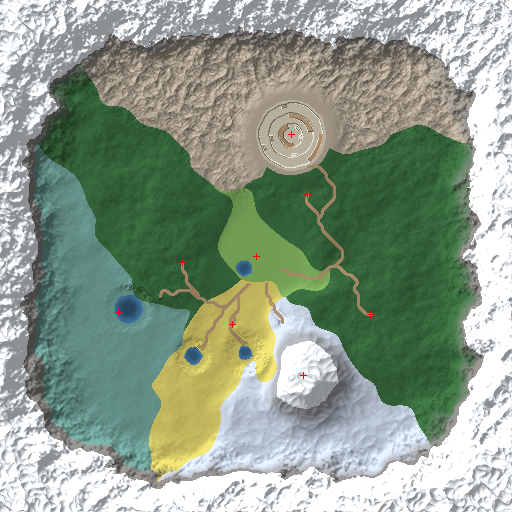
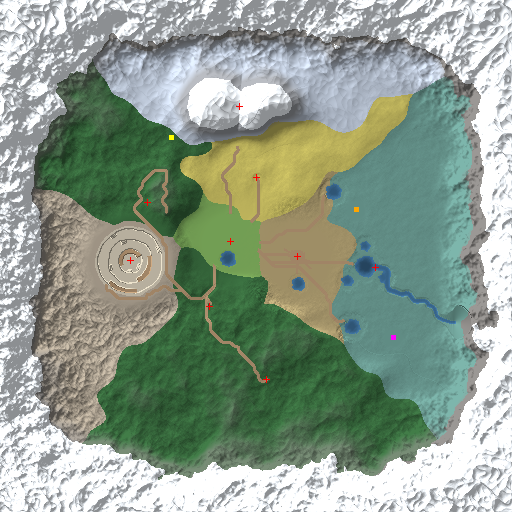
Procgen variety, phase 6: wrap-up docs
README: generated worlds' kinds, Hearthvale, rivers, landmarks, rich and lean,
and the new scripts; a fresh top-down map of seed 42. TODO: what's left (new
in-game screenshots, walking the new pieces, the ring road).

diff --git a/README.md b/README.md
@@ -52,11 +52,15 @@ whatever you hit.
   - **Goldmeadow** (south-east): rolling farmland. Crop squares of wheat and barley between dirt tracks, a windmill with turning sails (wall-run it), a fenced pasture with hay bales, a hay cart, lone oaks, and crickets.
   - **Hearthvale** (the village), **Stillwater** (the lake), **The Clearing** and **Frostpeak** have moods of their own too.
 - **Generated worlds (experimental).** From the debug menu's *Procgen* tab (or `-- --procgen --seed=N`), step into a world built from a seed in a few seconds, with its own character and save.
-  - A flat clearing to start in, a ring of biomes round it (Pinewood, Goldmeadow, Greystone Quarry, Frostpeak, Stillwater) with wandering borders, gentler ones near the hub and harder ones further out, and mountains round the edge.
-  - Ponds and a lake with fish, a three-level quarry pit with its haul road and mantle stairs, and dirt trails winding from the clearing to every biome and shore.
-  - Every biome filled with its own trees, rocks, grain and scenery. Each tree, rock, bush and boulder may be one of four baked variants of its model, so no two look alike.
+  - A clearing to start in (somewhere near the middle), a ring of biomes round it with wandering borders, gentler ones near the start and harder ones further out, and mountains round the edge. Every biome is there on every seed, since progression needs them all.
+  - **Every biome rolls a kind**, named on its arrival card: a Pine Forest, Birch Grove or Old Growth; Grainfields, Orchard Downs or Rolling Downs; a Great Lake, a Marsh or an Island Lake; a Terraced, Deep or Broken quarry pit; a Lone Peak, Twin Peaks or a Ridge; a Meadow or a Hollow to start in. A kind changes the ground, the trees and rocks, and the scenery.
+  - **Hearthvale**, a village on every seed: the six buildings, their villagers and the upgrades (saved with that seed), round a square with lanes, in a valley or by its own pond.
+  - **Water:** ponds and a lake with fish, and a river (sometimes two) winding down from the mountains into the lake; trails ford it.
+  - **Out in the wilds:** ruins to climb (a Broken Tower or an Old Colonnade, an ore rock waiting on top), abandoned camps, and rare spots (a crystal outcrop or gold vein in the mountains, a ring of ancient oaks, a pond full of pike, a flower meadow).
+  - **Rich and lean:** each seed has twice as much of one resource and half as much of another; the debug menu's *Procgen* tab says which.
+  - Dirt trails wind from the clearing to every biome and shore. Each tree, rock, bush and boulder may be one of four baked variants of its model, so no two look alike.
 
-  | Seed 42, over Goldmeadow toward Frostpeak | Seed 42 from above (`tools/procgen_preview.gd`) |
+  | A generated world (before rivers, villages and landmarks) | Seed 42 from above (`tools/procgen_preview.gd`: ruins magenta, camps orange, rare spots yellow) |
   |---|---|
   | ![A generated world](docs/images/procgen.png) | ![Its map](docs/images/procgen_map.png) |
 
@@ -150,7 +154,7 @@ Key scripts:
 - **Fishing:** `spear_fishing.gd`, `fish_pond.gd`, `fish_school.gd`, `fish.gd`, `water_body.gd`
 - **Village:** `building.gd` (shows a tier, plays the upgrade), `villager.gd`, `upgrade_panel.gd`, `building_def.gd` / `building_tier.gd`, `prop.gd`
 - **World:** `world_map.gd` (where the biomes, roads and landmarks are, shared with the terrain generator), `day_night_sky.gd`, `footsteps.gd`, `pond_dressing.gd`, `scenery_scatter.gd` + `scatter_layer.gd`, `node_spawner.gd` + `spawn_entry.gd` (seeded gatherable nodes with stable save ids), `windmill.gd`
-- **Generated worlds:** `procgen/procgen_map.gd` (the seed's heights, surfaces, biome cells, water, quarry and trails, as plain arrays), `procgen/procgen_world.gd` (builds `scenes/procgen.tscn` from it, enter / leave, a save per seed), `procgen/procgen_population.gd` (the spawners and scenery per biome cell). Plan and decisions: [plans/procgen.md](plans/procgen.md)
+- **Generated worlds:** `procgen/procgen_map.gd` (the seed's heights, surfaces, biome cells, water, quarry and trails, as plain arrays), `procgen/procgen_world.gd` (builds `scenes/procgen.tscn` from it, enter / leave, a save per seed), `procgen/procgen_population.gd` (the spawners and scenery per biome cell, by kind), `procgen/procgen_landmarks.gd` (ruins, camps, rare spots). Plans and decisions: [plans/procgen.md](plans/procgen.md), [plans/procgen-variety.md](plans/procgen-variety.md)
 - **The road:** `road_course.gd` (set pieces by metres along the road), `time_trial.gd`
 - **Autoloads:** `Skills`, `Inventory`, `SaveGame`, `Village` (building tiers, the town-hall cap, perks), `DayNight` (the clock), `Biome` (where you are, the mood, cards and ambience), `Juice` (hit-stop and shake), `Sfx`, `GameInput`
 

diff --git a/docs/TODO.md b/docs/TODO.md
@@ -78,14 +78,17 @@ Plan and decisions: [plans/biomes.md](../plans/biomes.md).
 
 ## Generated worlds (experimental)
 
-Plan and decisions: [plans/procgen.md](../plans/procgen.md). On the `procgen` branch.
+Plans and decisions: [plans/procgen.md](../plans/procgen.md), [plans/procgen-variety.md](../plans/procgen-variety.md). On the `procgen` branch.
 
 - [x] **A world from a seed:** biome ring, water with fish, a quarry pit, trails, spawners and scenery per biome, four baked variants of every gatherable and big scenery model (`scripts/procgen/`, `scenes/procgen.tscn`).
 - [x] **A voice per tree species and per ore** (`tools/synth_wood_sounds.py`, `tools/synth_mining_sounds.py`). This changes the hand-built world's sounds too.
 - [ ] **Playtest and listen:** walk a few seeds; listen to every tree species and ore (the voices are measured, not heard yet: no steady pulsing, no beating tones, pitch and ring in the intended order).
-- [ ] **Load time:** about 8 s on seed 42: ~1.8 s for the map, ~2.7 s spawning (each fractured ore rock takes ~50 ms to build), ~1.4 s scenery, the rest the first frame's shaders. Could spread the spawning over frames behind the overlay, or cache built rocks.
+- [ ] **Load time:** about 4–7 s per seed now (measured headless; ~8 s windowed before the variety work): ~1.8 s for the map, ~2.7 s spawning (each fractured ore rock takes ~50 ms to build), ~1.4 s scenery, the rest the first frame's shaders. Could spread the spawning over frames behind the overlay, or cache built rocks.
 - [ ] **The quarry ambience hum** (55 + 82.5 Hz) repeats 27.5 times a second: a low growl. Worth a listen given how the breeze turned out.
-- [ ] **A village or camp in generated worlds**, and the ring road / time trial: left out for now (they're hand-placed with baked heights).
+- [x] **Variety:** a kind per biome, Hearthvale (the village) on every seed, rivers, ruins, camps and rare spots, rich and lean resources, an off-centre start (`plans/procgen-variety.md`).
+- [ ] **New screenshots:** `docs/images/procgen.png` predates the village, rivers and landmarks (skipped while a game was using the GPU; take them with the shots script when the machine's free).
+- [ ] **Walk the new pieces:** climb both ruins to their reward, wade a river and its fords, check the Lakeside Village's fisher meets the pond, see each kind's ground in person.
+- [ ] **The ring road / time trial in generated worlds:** still left out (hand-placed with baked heights).
 - [ ] **Hand-sculpting a seed:** a seed you like could be baked to `terrain_data`-style files and edited.
 - [ ] **Merge or drop:** the branch carries the wood and mining voicing and the camera fix (already on `main`); the procgen world itself only touches the debug menu, `SaveGame.use_file`, `Biome.locator` and `NodeSpawner.accept` / `SpawnEntry.variants`.
 

diff --git a/plans/procgen-variety.md b/plans/procgen-variety.md
@@ -52,7 +52,7 @@ from what each biome is like, where things sit, and what turns up between them.
    seed) and an abandoned camp or two (cart, hay, log pile, crates).
 5. **Rich and lean seeds** ✅: one resource doubled, one halved; shown in the debug menu's Procgen tab
    and the preview tool's output.
-6. **Wrap-up**: README, TODO, screenshots.
+6. **Wrap-up** ✅: README, TODO, screenshots.
 
 ## Verifying
 
